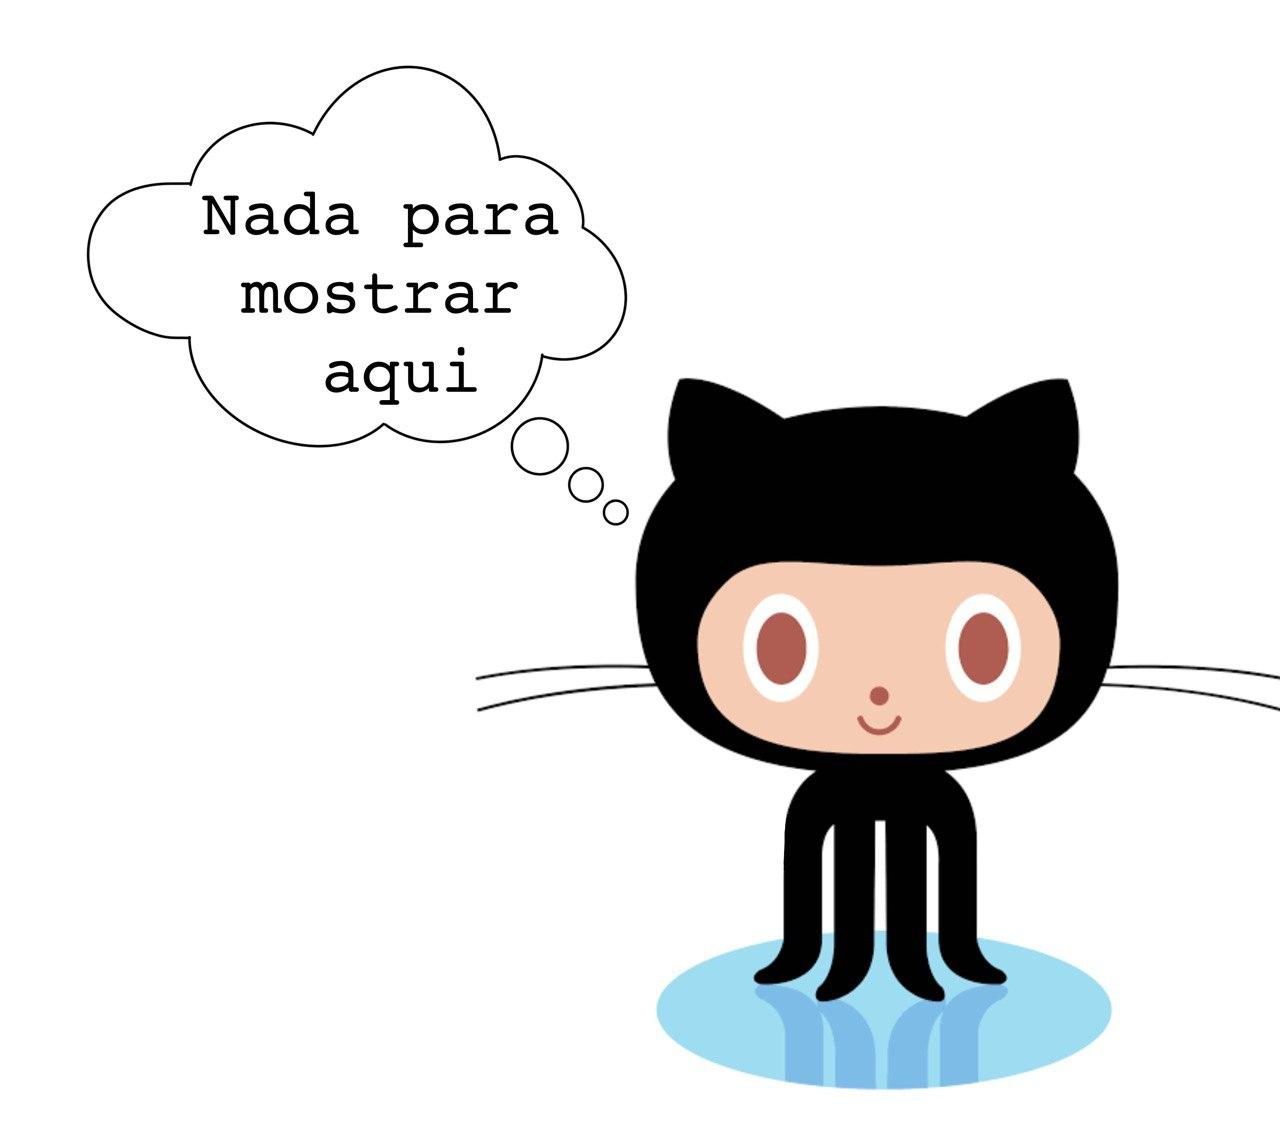
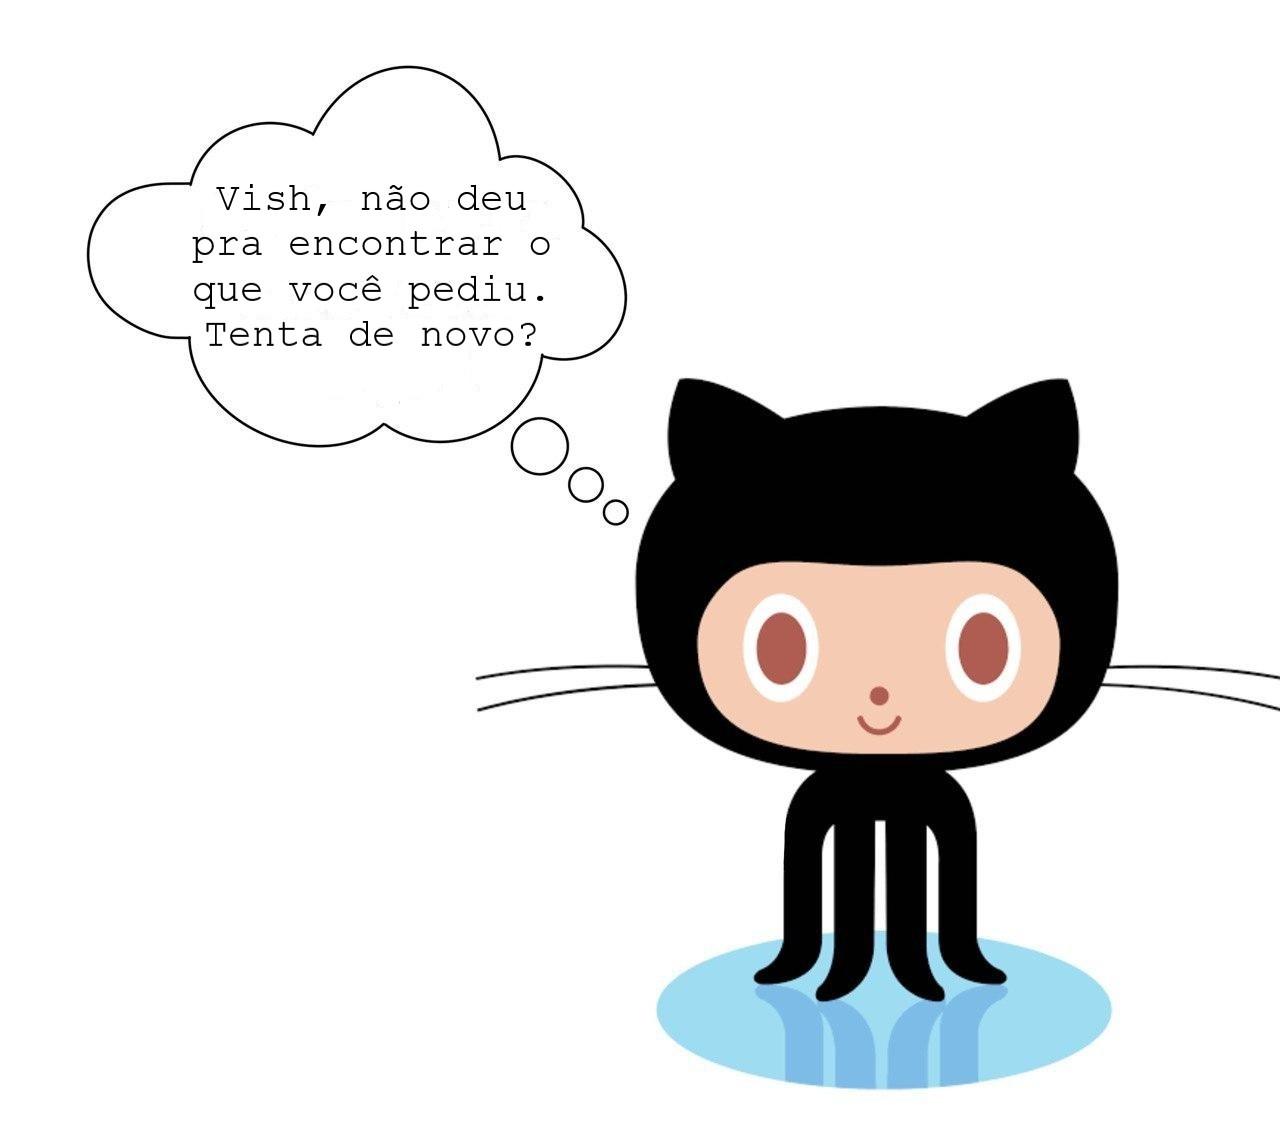
Código finalizado.

Changed region(s): [[0.1562, 0.1561, 0.4375, 0.3747]]

diff --git a/srcs/Controller/UserController.js b/srcs/Controller/UserController.js
@@ -1,17 +1,15 @@
 class UserController {
-    constructor() {}
+    constructor() {throw new Error("Você não pode fazer isso!") }
 
     static getUser(url) {
-        //console.log(url)
-        
+        let divUser = document.getElementById("content");        
         let userRequest = new XMLHttpRequest(); 
         userRequest.open("GET", url);
 
         userRequest.addEventListener ("load", () => {
-
-            if (userRequest.status == 200) {
             
-            let divUser = document.getElementById("content");
+            if (userRequest.status == 200) {
+                       
             let userObj = JSON.parse(userRequest.responseText);
             
             //criando o usuário do controller
@@ -26,8 +24,9 @@ class UserController {
             divUser.innerHTML = UserView.template(gitUser.returnUser()); 
                                         
         } else {
-            //let divUser = document.getElementById("#content");
-            //divUser.innerText = "Algo deu errado. Busque novamente!"
+            divUser.innerHTML = `<div id="content" class="divContent">
+                                 <img class="imgFundo" src="img/giterro.jpg">
+                                 </div>`
         }
 
                         

diff --git a/css/style.css b/css/style.css
@@ -72,31 +72,12 @@ button:hover{
 }
 .divContent img{
     
-    width: 350px;
+    width: 550px;
     opacity: 100%;
     padding: 80px;
 
 }
 
-footer {
-    font-family: 'Poiret One', cursive;
-    font-size: 18px;
-    background-color: #24292e;
-    color: rgba(255, 255, 255, 0.712);
-    display: flex;
-    justify-content: end;
-    align-items: center;
-    flex-flow: column;
-    bottom: 0;
-    left: 0;
-    right: 0;
-    text-align: center;
-    padding: 10px;
-    
-
-   
-        
-}
 
 #profile {
     width: 100%;
@@ -127,7 +108,33 @@ footer {
 
 }
 
+#userRepos {
+    width: 100%;
+    display: flex;
+    justify-content: space-around;
+    flex-wrap: wrap;
+    justify-content: space-evenly;
+    font-size: 20px;
+    color: #24292e;
+    box-sizing: border-box;
+    padding: 18px;
+    margin-top: 30px;
+    margin-bottom: 30px;
+    text-align: center;
 
+}
+
+#reposImg {
+    width: 150px;
+    padding: 10px;
+    margin: 50px;
+    margin-bottom: 5px;
+    
+   
+    
+
+
+}
 
 
 @media (max-width: 768px) { 

diff --git a/srcs/Controller/ReposController.js b/srcs/Controller/ReposController.js
@@ -1,0 +1,27 @@
+class ReposController {
+    constructor() {throw new Error("Você não pode fazer isso!") }
+    
+    static getRepos(url) {
+        let reposDiv = document.querySelector("#userRepos");
+        reposDiv.innerHTML = "";
+        
+        let reposReq = new XMLHttpRequest();
+        
+        reposReq.open("GET",url);
+
+        reposReq.addEventListener("load", ()=> {
+
+            if(reposReq.status == 200){
+                
+                let reposObj = JSON.parse(reposReq.responseText);
+
+                for(let i=0; i < reposObj.length; i++){
+                    let reposApi = new Repository(reposObj[i].name, reposObj[i].html_url);
+                    reposDiv.innerHTML += ReposView.template(reposApi.getRepos());
+                }
+            }
+        })
+
+        reposReq.send();
+    }
+}

diff --git a/index.html b/index.html
@@ -30,19 +30,20 @@
         <img class="imgFundo" src="img/githome.jpg">
     </div>
 
-    <div id="reposContent">
+    <div id="userRepos" >
 
     </div>
+    
 </body>
 
-<footer>
-    <p> &#169 Resilia Educação | 2020</p> 
-</footer>
 
 
 <script src="srcs/Models/user.js"></script>
+<script src="srcs/Models/Repository.js"></script>
 <script src="srcs/Controller/UserController.js"></script>
+<script src="srcs/Controller/ReposController.js"></script>
 <script src="srcs/Views/UserView.js"></script>
+<script src="srcs/Views/ReposView.js"></script>
 <script src="srcs/Controller/ControllerAux.js"></script>
 
 </html>

diff --git a/srcs/Views/UserView.js b/srcs/Views/UserView.js
@@ -16,21 +16,3 @@ class UserView {
     }
 }
 
-class ReposView {
-
-    static template(user) {
-        return `<div id="respositories">
-                    <img id="imgProfile" src="${user.avatar}">
-                    <div>
-                    <p> Login: ${user.login}</p>
-                    <p> Name: ${user.name}</p>
-                    <p> Local: ${user.local}</p>
-                    <p> Followers: ${user.followers}</p>
-                    <p> Following: ${user.following}</p>
-                    </div>
-                </div>
-
-               `;
-    }
-
-}

diff --git a/srcs/Controller/ControllerAux.js b/srcs/Controller/ControllerAux.js
@@ -1,8 +1,14 @@
 let buttonSearch = document.querySelector("#userSearch");
 let inputSearch = document.querySelector("#userForm");
+let reposSearch = document.querySelector("#userRepos")
 
 buttonSearch.addEventListener ("click", () => {
     let userURL = `https://api.github.com/users/${inputSearch.value}`
+    let reposURL = `https://api.github.com/users/${inputSearch.value}/repos`;
+    
     UserController.getUser(userURL);
+    ReposController.getRepos(reposURL);
+    inputSearch.value = "";
+    inputSearch.focus();
 })
 

diff --git a/srcs/Views/ReposView.js b/srcs/Views/ReposView.js
@@ -1,0 +1,12 @@
+class ReposView {
+
+    static template(repos) {
+        return `<div id="respositories">
+                    <a href="${repos.url}">
+                    <img src="img/gitRepos.png" id="reposImg">
+                    </a>
+                    <p id="reposName">Repository:<br> ${repos.name}</p>      
+                </div>`;
+    }
+
+}

diff --git a/srcs/Models/Repository.js b/srcs/Models/Repository.js
@@ -1,0 +1,13 @@
+class Repository {
+    constructor(name, url){
+        this._name = name;
+        this._url = url;
+    }
+
+    getRepos() {
+        return {
+            name: this._name,
+            url: this._url
+        };
+    }
+}
